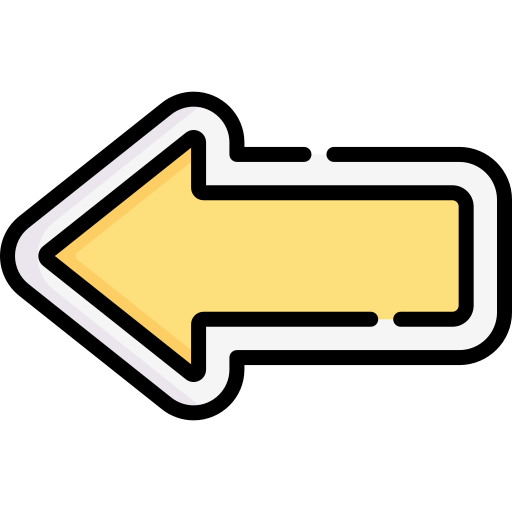
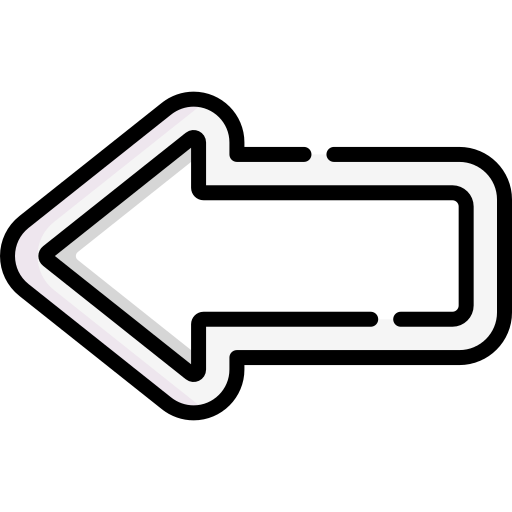
arrow colors

Changed region(s): [[0.0938, 0.2812, 0.9062, 0.7188]]

diff --git a/src/components/Slot.js b/src/components/Slot.js
@@ -1,47 +1,58 @@
-import React, { useState } from 'react';
+import React, { useState, useEffect } from 'react';
 import slotArrowNorth from '../images/slot-arrow-north.png';
 import slotArrowSouth from '../images/slot-arrow-south.png';
 import slotArrowEast from '../images/slot-arrow-east.png';
 import slotArrowWest from '../images/slot-arrow-west.png';
+import slotArrowNorthBlack from '../images/slot-arrow-north-black.png';
+import slotArrowSouthBlack from '../images/slot-arrow-south-black.png';
+import slotArrowEastBlack from '../images/slot-arrow-east-black.png';
+import slotArrowWestBlack from '../images/slot-arrow-west-black.png';
 import blocked from '../images/blocked.png';
 import { SPACE } from '../config.js/space';
 
-function Slot({ onClick, children, position, isValid, isBlocked }) {
+function Slot({ onClick, children, position, isValid, isBlocked, heldPiece, turn, gameMode }) {
   const [isHovered, setIsHovered] = useState(false);
 
   let arrowImage;
 
+  const isTeamTwoTurn = gameMode === 'twoPlayer' && turn === 2;
+
   if (isBlocked) {
-    arrowImage = blocked; // Use blocked image if the slot is blocked
+    arrowImage = blocked;
   } else {
-    // Use the arrow image based on the position
     switch (position) {
       case 'north':
-        arrowImage = slotArrowNorth;
+        arrowImage = isTeamTwoTurn ? slotArrowNorthBlack : slotArrowNorth;
         break;
       case 'south':
-        arrowImage = slotArrowSouth;
+        arrowImage = isTeamTwoTurn ? slotArrowSouthBlack : slotArrowSouth;
         break;
       case 'east':
-        arrowImage = slotArrowEast;
+        arrowImage = gameMode === 'fourPlayer' || isTeamTwoTurn ? slotArrowEastBlack : slotArrowEast;
         break;
       case 'west':
+        arrowImage = gameMode === 'fourPlayer' || isTeamTwoTurn ? slotArrowWestBlack : slotArrowWest;
+        break;
       default:
         arrowImage = slotArrowWest;
-        break;
     }
   }
 
-  // Handle mouse enter and leave to highlight the arrow
   const handleMouseEnter = () => {
-    if (!isBlocked && isValid) {
-      setIsHovered(true); // Set hover state to true
+    if (!isBlocked && isValid && heldPiece) {
+      setIsHovered(true);
     }
   };
 
   const handleMouseLeave = () => {
-    setIsHovered(false); // Set hover state to false
+    setIsHovered(false);
   };
+
+  useEffect(() => {
+    if(!heldPiece) {
+      setIsHovered(false);
+    }
+  }, [heldPiece]);
 
   return (
     <div

diff --git a/src/components/Board.js b/src/components/Board.js
@@ -4,7 +4,7 @@ import Slot from './Slot';
 import Piece from './Piece';
 import Corner from './Corner';
 
-function Board({ board, onPlacePiece, onCornerClick, isCurrentTurnSlot, gameMode }) {
+function Board({ board, onPlacePiece, onCornerClick, isCurrentTurnSlot, gameMode, heldPiece, turn }) {
   // Function to determine if a slot is blocked
   const isSlotBlocked = (rowIndex, colIndex) => {
     if (rowIndex === 0) {
@@ -80,7 +80,10 @@ function Board({ board, onPlacePiece, onCornerClick, isCurrentTurnSlot, gameMode
                 onClick={() => onPlacePiece(rowIndex, colIndex)}
                 position={slotPosition}
                 isValid={isValid}
-                isBlocked={isBlocked} // Pass the isBlocked prop
+                isBlocked={isBlocked}
+                heldPiece={heldPiece}
+                gameMode={gameMode}
+                turn={turn}
               >
                 {board[rowIndex][colIndex] && (
                   <Piece team={board[rowIndex][colIndex]} />

diff --git a/src/components/Game.js b/src/components/Game.js
@@ -461,6 +461,8 @@ function Game({ gameMode, scroll, setFadeButtons, setFadeTitle}) {
                   onCornerClick={handleCornerClick}
                   isCurrentTurnSlot={isCurrentTurnSlot}
                   gameMode={gameMode}
+                  heldPiece={heldPiece}
+                  turn={turn}
                 />
                 <div className='east-gravity-button' style={{ visibility: isCurrentPlayerTurn('east') ? 'visible' : 'hidden'}}>
                   <button onClick={() => shiftGravity('right')}>Pull</button>

diff --git a/src/components/Piece.js b/src/components/Piece.js
@@ -1,7 +1,6 @@
 import React from 'react';
 import teamOneDog from '../images/teamOneDog.png';
 import teamTwoDog from '../images/teamTwoDog.png';
-// import defaultDog from '../images/defaultDog.png';
 
 
 
@@ -18,7 +17,6 @@ function Piece({ team }) {
       style={{
         width: '70px',
         height: '70px',
-        // borderRadius: '50%',
         backgroundImage: `url(${getImageSrc()})`,
         backgroundSize: 'cover',
         backgroundPosition: 'center',
